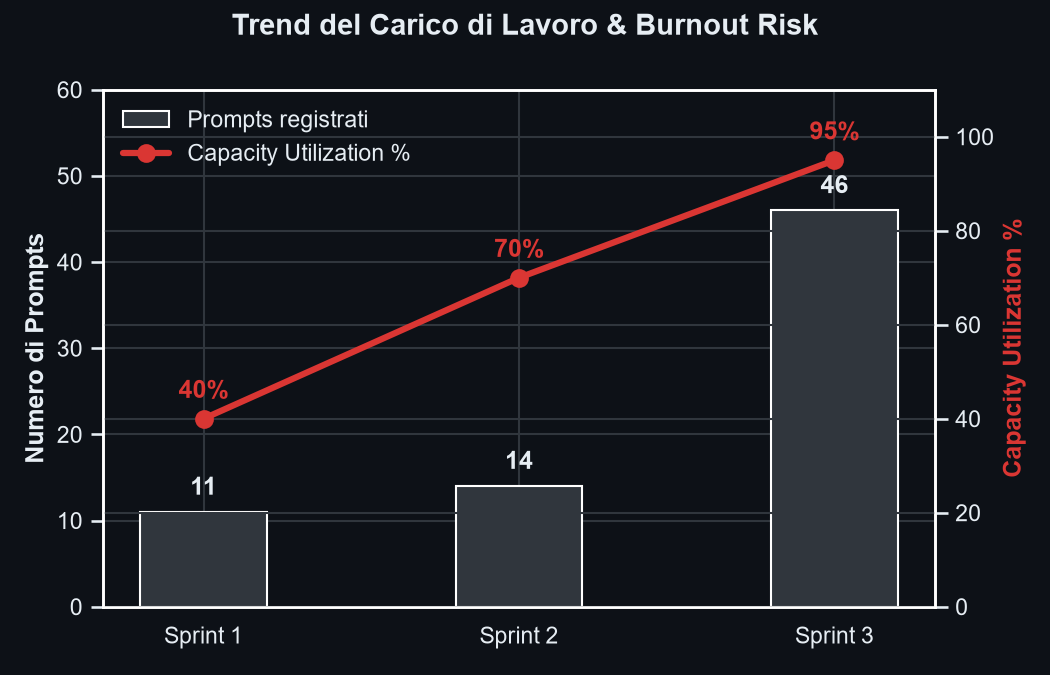
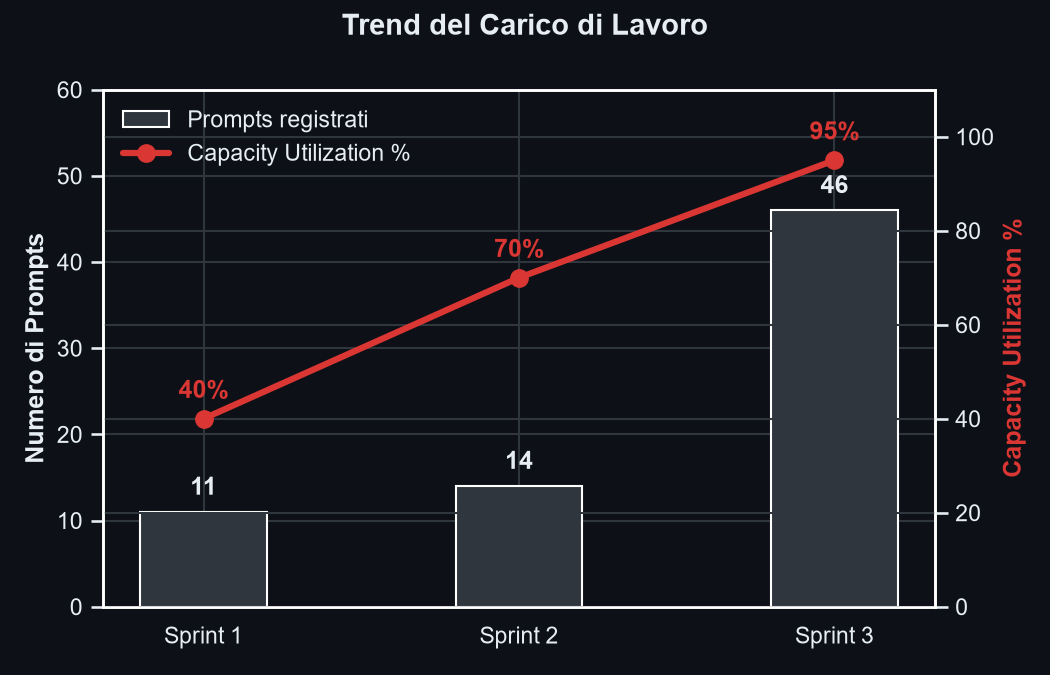
docs: remove burnout references from opensource repo

Changed region(s): [[0.2133, 0.0, 0.7924, 0.0622]]

diff --git a/README.md b/README.md
@@ -471,15 +471,12 @@ Di seguito i principali risultati raggiunti al termine dello Sprint 3:
 ### ⚖ Dinamiche del Team e Rischi Operativi
 
 <div align="center">
-  <img src="docs/images/kpi_workload.png" alt="Workload Trend & Burnout Risk" width="600">
+  <img src="docs/images/kpi_workload.png" alt="Workload Trend" width="600">
 </div>
 
 <div align="center">
   <img src="docs/images/kpi_correlation.png" alt="Correlazione Carico vs Qualità" width="500">
 </div>
-
-> [!WARNING]
-> **Aree di miglioramento operativo:** Durante lo Sprint 3 si è registrata una *Resource Capacity Utilization* superiore al 95% e uno sbilanciamento nella contribuzione del team. Come visibile dai grafici, all'aumentare estremo del carico corrisponde un'impennata di difetti (fenomeno *Velocity Mirage*). Questi indicatori suggeriscono l'adozione futura di sessioni obbligatorie di Pair Programming per mitigare il rischio di burnout.
 
 ---
 
